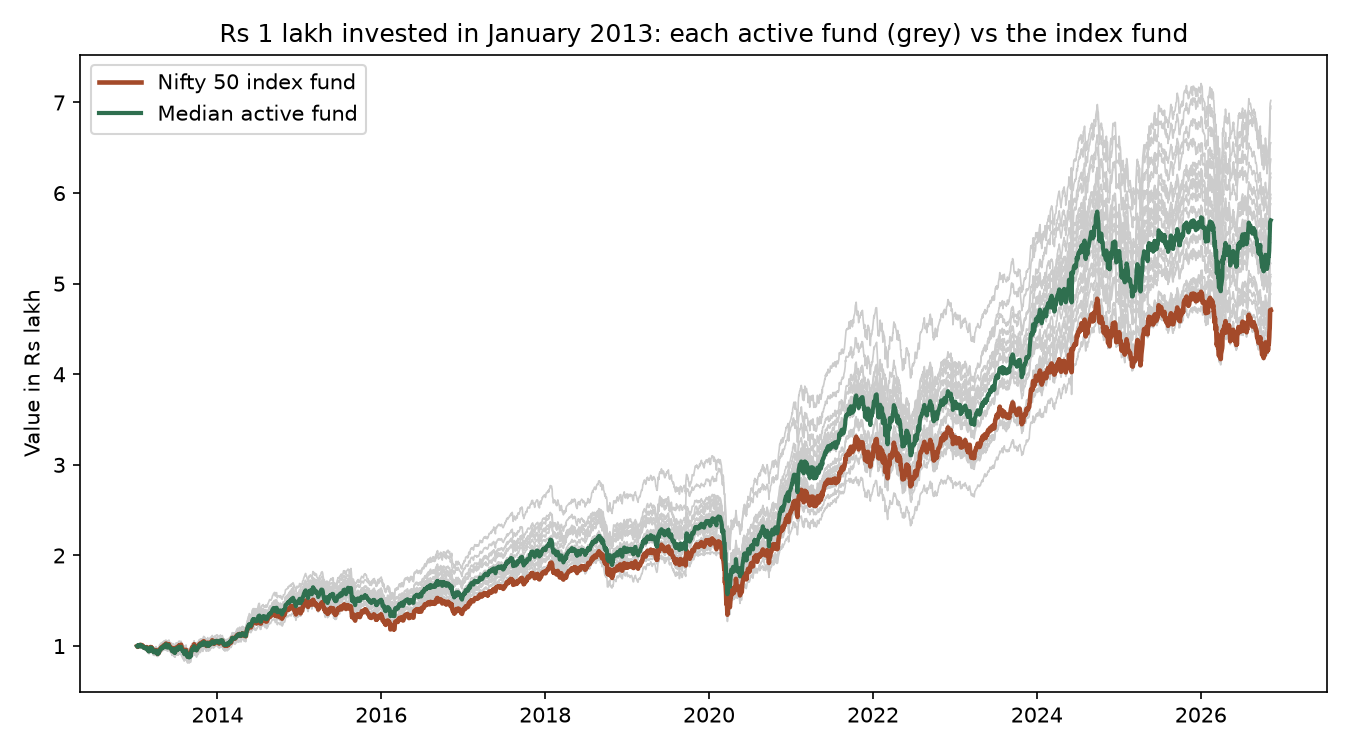
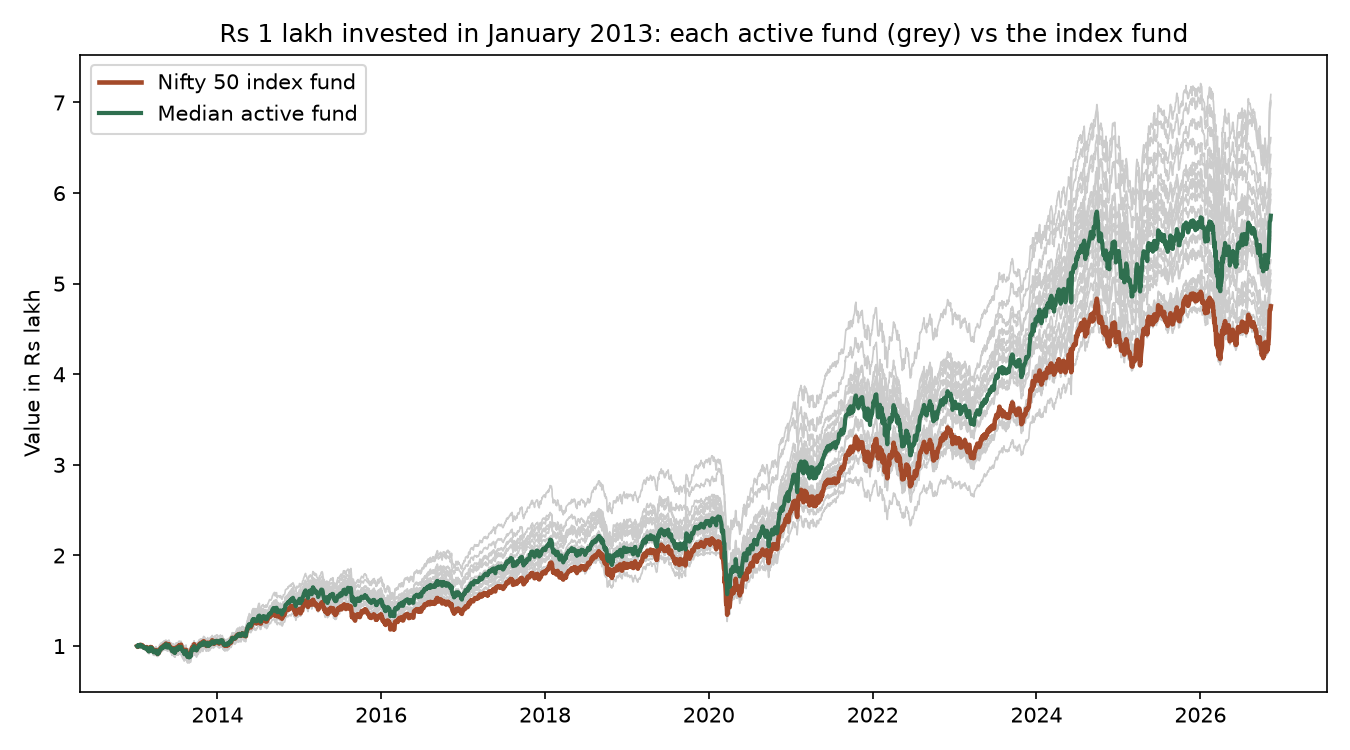
Data refresh: NAVs to 2026-11-12

diff --git a/README.md b/README.md
@@ -5,7 +5,7 @@
 **Short answer:** Over 2013–2026, yes: 19 of 20 surviving active large-cap funds beat the UTI Nifty 50 Index Fund. But it is **streaky**, and the full-period number flatters active funds because of **survivorship bias**. Active funds won almost every 3-year window up to 2018, then most of them *lost* to the index from 2019 to 2021, and they have been winning again since 2024.
 
 <!-- latest -->
-**Latest data: 09 Nov 2026.** Over 13.8 years, the Nifty 50 index fund returned 11.85% a year; 19 of 20 surviving active funds beat it. Right now, 100% of active funds are ahead of the index over the past 3 years.
+**Latest data: 11 Nov 2026.** Over 13.8 years, the Nifty 50 index fund returned 11.92% a year; 19 of 20 surviving active funds beat it. Right now, 100% of active funds are ahead of the index over the past 3 years.
 <!-- /latest -->
 
 ## Data
